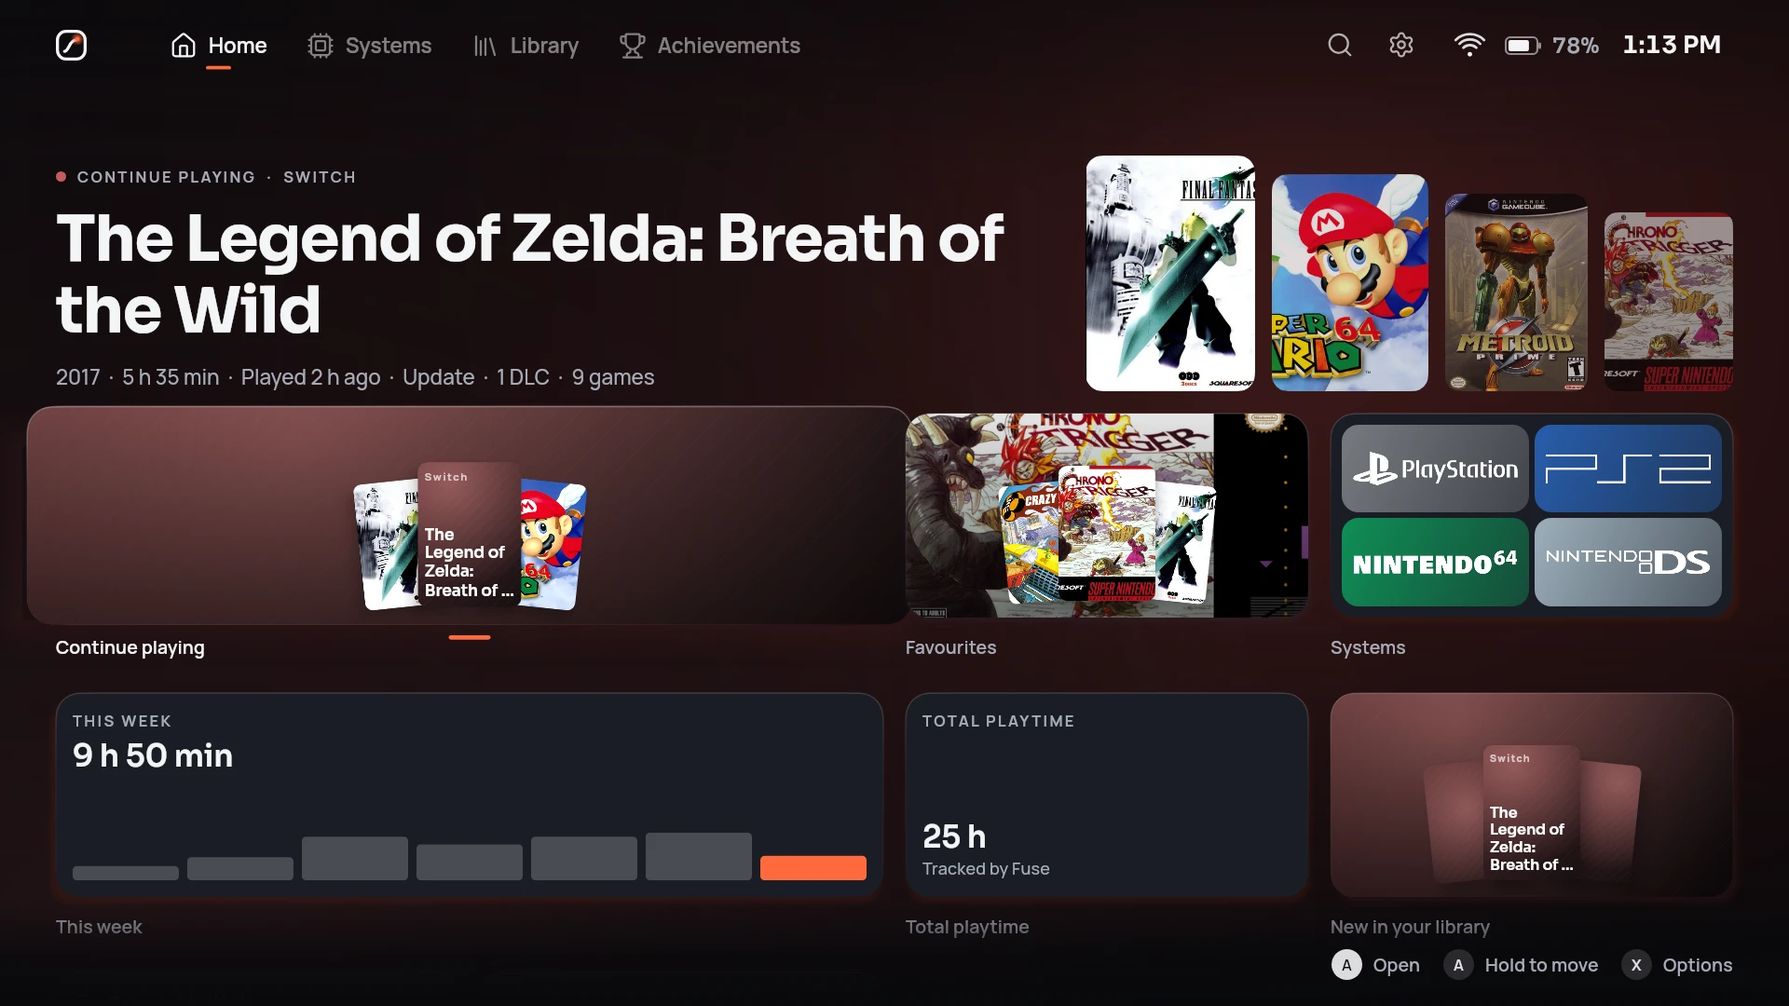
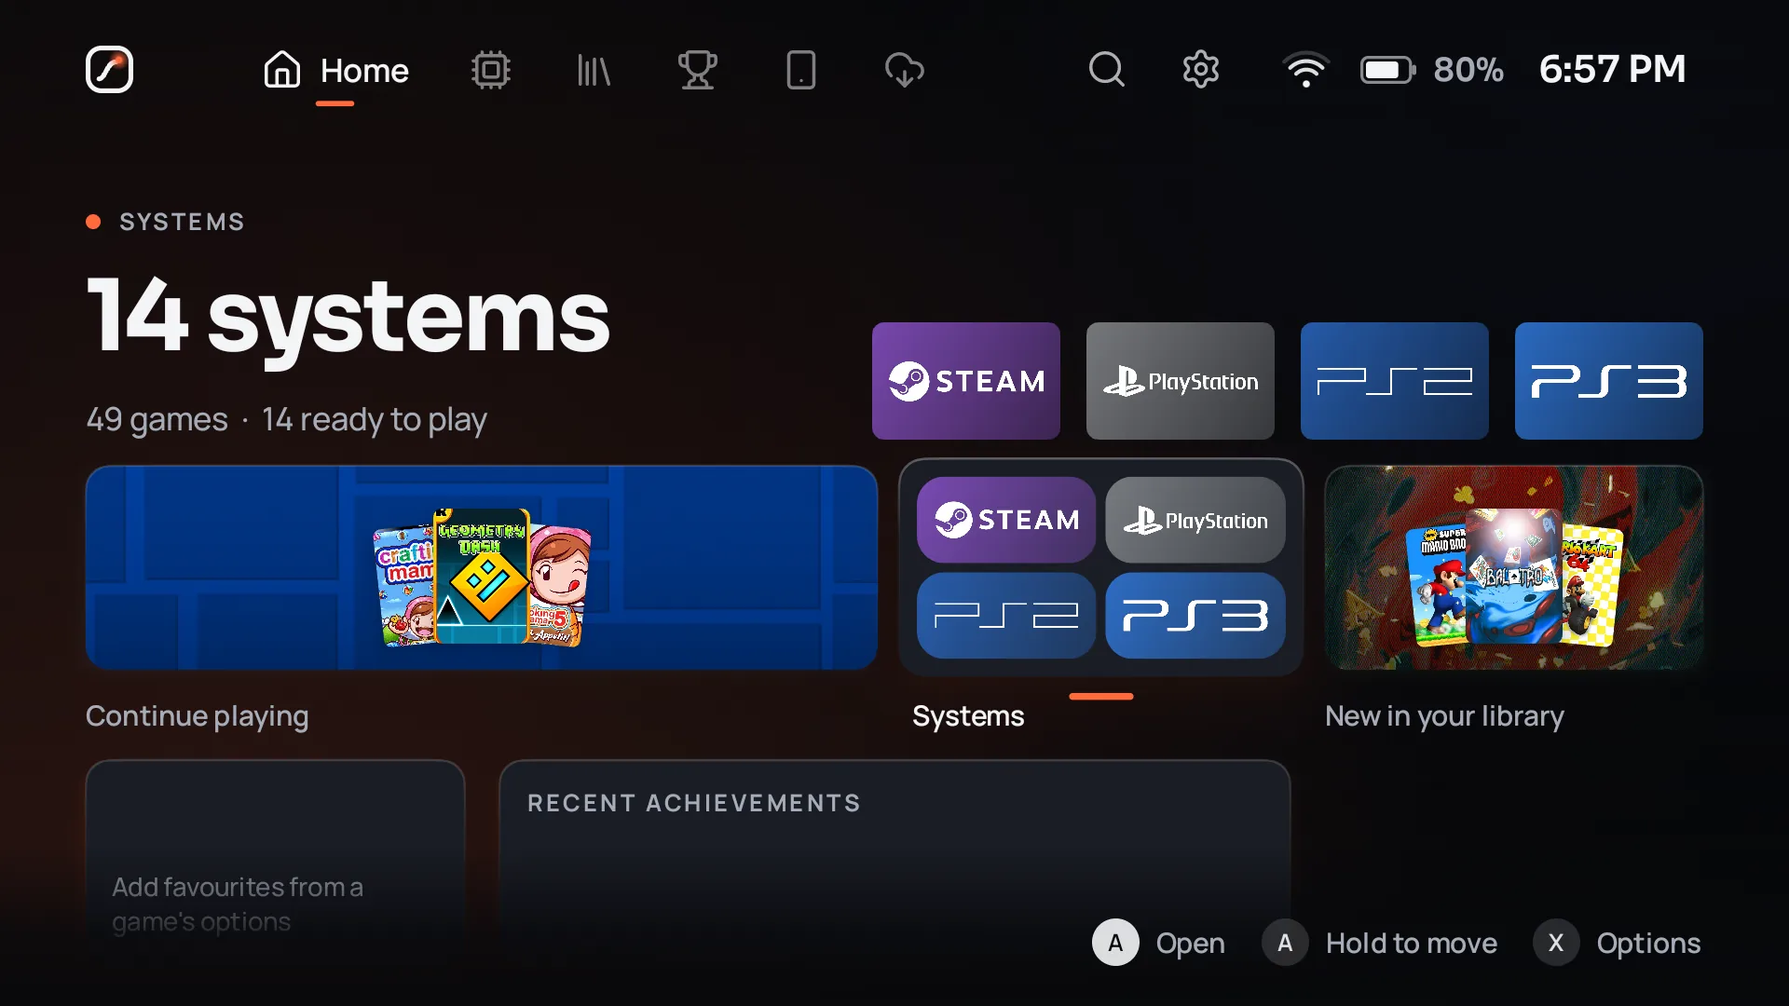
README and website: screenshots from the AYN Thor
The README and the website now show Fuse as it runs on an AYN Thor, with a real library and the art
Fuse filled in for it, instead of renders of an invented library:
- the Library with 2010 FIFA World Cup South Africa over its stadium as the hero;
- Home as Channels, Systems, the Nintendo Switch page, the emulators in Apps, the quick menu and
  the controller keyboard in the gallery;
- the Cartridge page in "RomM through Cartridge" and on the site.

The renders are removed; the screenshot harness now writes to ui/shell/build/readme-screenshots so
it never overwrites the device captures. The screenshot credits say where the captures come from.

Also fixes a capture catching the previous capture's card: the "Screenshot saved" card and the
shutter flash faded out over the 150 ms Fuse waits before taking a picture, so a screenshot taken
right after another could show the card faintly (two of these captures do). While a capture is
taken they are now not drawn at all; the card still slides in afterwards. A test takes two
screenshots in a row and fails on the old overlay.

Claude-Session: https://claude.ai/code/session_01FNdMCeubRUqdWGUFtgwq7x

diff --git a/site/index.html b/site/index.html
@@ -108,7 +108,7 @@
   </section>
 
   <figure class="showcase">
-    <img src="assets/screenshots/home.webp" alt="Fuse's Home screen: The Legend of Zelda: Breath of the Wild in focus, told big over its own art, with Continue playing and a row of systems below" width="1920" height="1080" fetchpriority="high">
+    <img src="assets/screenshots/library.webp" alt="Fuse's Library on an AYN Thor: 2010 FIFA World Cup South Africa in focus, its logo large over a stadium that fills the screen, with rows of square box art below" width="1920" height="1080" fetchpriority="high">
   </figure>
 
   <section id="new" class="shelf" aria-labelledby="new-title" hidden>
@@ -133,11 +133,13 @@
   <section id="screens" class="shelf" aria-labelledby="screens-title">
     <h2 id="screens-title" class="label">A look around</h2>
     <div class="row screens" data-row>
-      <a class="tile screen" href="assets/screenshots/library-icons.webp"><img src="assets/screenshots/library-icons.webp" alt="The library as a grid of square box art, Crazy Taxi in focus" loading="lazy" width="1920" height="1080"><span>Library</span></a>
-      <a class="tile screen" href="assets/screenshots/library-covers.webp"><img src="assets/screenshots/library-covers.webp" alt="The library as a wall of covers, Advance Wars in focus" loading="lazy" width="1920" height="1080"><span>Cover grid</span></a>
-      <a class="tile screen" href="assets/screenshots/systems.webp"><img src="assets/screenshots/systems.webp" alt="Every system with its own logo and artwork, Nintendo Switch in focus" loading="lazy" width="1920" height="1080"><span>Systems</span></a>
-      <a class="tile screen" href="assets/screenshots/game.webp"><img src="assets/screenshots/game.webp" alt="The page of The Legend of Zelda: Breath of the Wild, with its details and a Play button" loading="lazy" width="1920" height="1080"><span>Game page</span></a>
-      <a class="tile screen" href="assets/screenshots/home-channels.webp"><img src="assets/screenshots/home-channels.webp" alt="Home as a board of channels" loading="lazy" width="1920" height="1080"><span>Channels</span></a>
+      <a class="tile screen" href="assets/screenshots/home-channels.webp"><img src="assets/screenshots/home-channels.webp" alt="Home as a board of tiles: Continue playing, Systems, New in your library and recent achievements" loading="lazy" width="1920" height="1080"><span>Home</span></a>
+      <a class="tile screen" href="assets/screenshots/systems.webp"><img src="assets/screenshots/systems.webp" alt="Every system with its own logo and artwork, Steam in focus with 10 games in GameNative" loading="lazy" width="1920" height="1080"><span>Systems</span></a>
+      <a class="tile screen" href="assets/screenshots/system-page.webp"><img src="assets/screenshots/system-page.webp" alt="The Nintendo Switch page, Animal Crossing: New Horizons in focus over its island art" loading="lazy" width="1920" height="1080"><span>System page</span></a>
+      <a class="tile screen" href="assets/screenshots/apps.webp"><img src="assets/screenshots/apps.webp" alt="Apps: the 15 emulators found on the device, from ARMSX1 to XenDroid" loading="lazy" width="1920" height="1080"><span>Emulators</span></a>
+      <a class="tile screen" href="assets/screenshots/quick-menu.webp"><img src="assets/screenshots/quick-menu.webp" alt="The quick menu: time, battery left, Wi-Fi, Bluetooth, Screenshot, Display, Controller and Performance" loading="lazy" width="1920" height="1080"><span>Quick menu</span></a>
+      <a class="tile screen" href="assets/screenshots/keyboard.webp"><img src="assets/screenshots/keyboard.webp" alt="Search with the controller keyboard, with hints on the face buttons" loading="lazy" width="1920" height="1080"><span>Keyboard</span></a>
+      <a class="tile screen" href="assets/screenshots/cartridge.webp"><img src="assets/screenshots/cartridge.webp" alt="Cartridge connected to RomM: browse, search, upload and downloads, by system" loading="lazy" width="1920" height="1080"><span>Cartridge</span></a>
     </div>
   </section>
 

diff --git a/ui/shell/src/desktopTest/kotlin/io/github/matiyaaa/fuse/ui/shell/capture/CaptureOverlayTest.kt b/ui/shell/src/desktopTest/kotlin/io/github/matiyaaa/fuse/ui/shell/capture/CaptureOverlayTest.kt
@@ -1,0 +1,67 @@
+package io.github.matiyaaa.fuse.ui.shell.capture
+
+import androidx.compose.foundation.layout.Box
+import androidx.compose.foundation.layout.size
+import androidx.compose.runtime.remember
+import androidx.compose.runtime.rememberCoroutineScope
+import androidx.compose.ui.Modifier
+import androidx.compose.ui.test.ExperimentalTestApi
+import androidx.compose.ui.test.onNodeWithText
+import androidx.compose.ui.test.v2.runComposeUiTest
+import androidx.compose.ui.unit.dp
+import io.github.matiyaaa.fuse.ui.designsystem.input.ComboGesture
+import io.github.matiyaaa.fuse.ui.designsystem.theme.FuseTheme
+import io.github.matiyaaa.fuse.ui.shell.platform.CaptureResult
+import io.github.matiyaaa.fuse.ui.shell.platform.Haptics
+import io.github.matiyaaa.fuse.ui.shell.platform.RecordingReady
+import io.github.matiyaaa.fuse.ui.shell.platform.ScreenCapture
+import kotlin.test.Test
+import kotlin.test.assertEquals
+import kotlinx.coroutines.flow.MutableSharedFlow
+
+/** What the overlay draws while a capture is taken: nothing of its own, not even a card fading out. */
+@OptIn(ExperimentalTestApi::class)
+class CaptureOverlayTest {
+    private class Shots : ScreenCapture {
+        var taken = 0
+        override val picturesPlace = "Pictures/Fuse"
+        override val videosPlace = "Movies/Fuse"
+        override val stoppedElsewhere = MutableSharedFlow<CaptureResult>()
+        override val leftFuse = MutableSharedFlow<Unit>()
+        override suspend fun screenshot(name: String): CaptureResult {
+            taken++
+            return CaptureResult(picturesPlace)
+        }
+        override suspend fun prepareRecording(withSound: Boolean) = RecordingReady.UNAVAILABLE
+        override fun startRecording(name: String) = Unit
+        override suspend fun stopRecording(): CaptureResult? = null
+    }
+
+    @Test
+    fun theLastCardIsGoneTheMomentTheNextScreenshotStarts() = runComposeUiTest {
+        val shots = Shots()
+        lateinit var controller: CaptureController
+        mainClock.autoAdvance = false
+        setContent {
+            val scope = rememberCoroutineScope()
+            controller = remember { CaptureController(shots, scope, Haptics.None, notify = { _, _ -> }, withSound = { false }) }
+            FuseTheme {
+                Box(Modifier.size(960.dp, 540.dp)) { CaptureOverlay(controller) }
+            }
+        }
+        runOnIdle { controller.onCombo(ComboGesture.TAP) }
+        mainClock.advanceTimeBy(CaptureController.CLEAR_MS + 500)
+        assertEquals(1, shots.taken)
+        onNodeWithText("Screenshot saved").assertExists()
+
+        // A second screenshot right away, as when the shots in the README were taken.
+        runOnIdle { controller.onCombo(ComboGesture.TAP) }
+        mainClock.advanceTimeBy(32)
+        assertEquals(CaptureController.State.Capturing, controller.state)
+        onNodeWithText("Screenshot saved").assertDoesNotExist()
+
+        mainClock.advanceTimeBy(CaptureController.CLEAR_MS + 500)
+        assertEquals(2, shots.taken)
+        onNodeWithText("Screenshot saved").assertExists()
+    }
+}

diff --git a/ui/shell/src/commonMain/kotlin/io/github/matiyaaa/fuse/ui/shell/capture/CaptureOverlay.kt b/ui/shell/src/commonMain/kotlin/io/github/matiyaaa/fuse/ui/shell/capture/CaptureOverlay.kt
@@ -64,9 +64,12 @@ import kotlinx.coroutines.delay
 @Composable
 fun BoxScope.CaptureOverlay(capture: CaptureController) {
     val state = capture.state
+    // While a capture is being taken the flash and the last capture's card are not drawn at all:
+    // left to fade out they could still be on screen, faintly, in the next picture.
+    val capturing = state == CaptureController.State.Capturing
     Countdown(state as? CaptureController.State.Countdown, Modifier.align(Alignment.Center))
-    Flash(capture.shots)
-    SavedCard(capture.saved, Modifier.align(Alignment.BottomStart).padding(start = Space.gutter, bottom = Size.hintHeight + Space.m))
+    Flash(capture.shots, hidden = capturing)
+    SavedCard(capture.saved, hidden = capturing, Modifier.align(Alignment.BottomStart).padding(start = Space.gutter, bottom = Size.hintHeight + Space.m))
 }
 
 @Composable
@@ -131,7 +134,7 @@ private fun SecondRing(second: Int) {
 
 /** A brief white flash after each screenshot, like a shutter. Left out under Reduced motion. */
 @Composable
-private fun Flash(shots: Int) {
+private fun Flash(shots: Int, hidden: Boolean) {
     if (Fuse.motion.reduced) return
     val alpha = remember { Animatable(0f) }
     LaunchedEffect(shots) {
@@ -139,12 +142,15 @@ private fun Flash(shots: Int) {
         alpha.snapTo(0.32f)
         alpha.animateTo(0f, tween(340))
     }
-    if (alpha.value > 0f) Box(Modifier.fillMaxSize().graphicsLayer { this.alpha = alpha.value }.background(Color.White))
+    if (alpha.value > 0f && !hidden) Box(Modifier.fillMaxSize().graphicsLayer { this.alpha = alpha.value }.background(Color.White))
 }
 
-/** The capture just saved, with a small picture of it and where it went. */
+/**
+ * The capture just saved, with a small picture of it and where it went. [hidden] draws nothing at
+ * once, even mid-animation, while the next capture is taken; the card still slides in afterwards.
+ */
 @Composable
-private fun SavedCard(saved: CaptureResult?, modifier: Modifier) {
+private fun SavedCard(saved: CaptureResult?, hidden: Boolean, modifier: Modifier) {
     val c = Fuse.colors
     // Keeps the last card on screen while it slides away.
     val shown = remember { arrayOfNulls<CaptureResult>(1) }
@@ -156,6 +162,7 @@ private fun SavedCard(saved: CaptureResult?, modifier: Modifier) {
         exit = fadeOut(tween(160)) + slideOutVertically(tween(200)) { it / 3 },
     ) {
         val card = shown[0] ?: return@AnimatedVisibility
+        if (hidden) return@AnimatedVisibility
         Row(
             Modifier
                 .shadow(18.dp, RoundedCornerShape(Fuse.geometry.panel), clip = false)

diff --git a/site/assets/site.css b/site/assets/site.css
@@ -48,11 +48,11 @@ img { display: block; }
 i { font-style: normal; color: var(--faint); margin: 0 .5em; }
 [hidden] { display: none !important; }
 
-/* The room: the home screen blurred behind everything, with a faint warm light low and a cool one high. */
+/* The room: a screen of Fuse blurred behind everything, with a faint warm light low and a cool one high. */
 .room { position: fixed; inset: 0; z-index: -1; overflow: hidden; pointer-events: none; }
 .room-art {
   position: absolute; inset: -8%;
-  background: url("screenshots/home.webp") center 30% / cover no-repeat;
+  background: url("screenshots/library.webp") center 30% / cover no-repeat;
   filter: blur(48px) saturate(1.1) brightness(.42);
   transform: scale(1.08);
   opacity: .9;

diff --git a/ui/shell/src/desktopTest/kotlin/io/github/matiyaaa/fuse/ui/shell/screenshots/ReadmeScreenshots.kt b/ui/shell/src/desktopTest/kotlin/io/github/matiyaaa/fuse/ui/shell/screenshots/ReadmeScreenshots.kt
@@ -46,7 +46,8 @@ import org.jetbrains.skia.Image
 import org.junit.Assume.assumeTrue
 
 /**
- * Renders the README screenshots from the real interface over the real store: a library of
+ * Renders screenshots from the real interface over the real store (the README and website now use
+ * captures from a device; these renders are for checking screens at a glance): a library of
  * well-known games ([SampleLibrary]) is scanned from a temporary folder and given its details, Fuse
  * fills its art over the network the way it does on a device (libretro thumbnails for games, Art
  * Book Next for systems), the app is driven with controller presses, and each settled frame is

diff --git a/README.md b/README.md
@@ -55,55 +55,53 @@ Home screen.
 The game you are on sets the mood. Its art fills the room, its colour tints the glow, and the tile
 under your thumb lifts toward you with a single sweep of light.
 
-<a href="docs/assets/screenshots/home.webp"><img src="docs/assets/screenshots/home.webp" width="100%" alt="Fuse's Home screen in the Fuse theme. The Legend of Zelda: Breath of the Wild is in focus, told large with its year, play time, update and DLC. Below, a Continue playing row with Final Fantasy VII, Super Mario 64 and Metroid Prime over their box art, and a row of systems with their logos and artwork."></a>
+<a href="docs/assets/screenshots/library.webp"><img src="docs/assets/screenshots/library.webp" width="100%" alt="Fuse's Library on an AYN Thor: 2010 FIFA World Cup South Africa is in focus, its logo large over a stadium full of fans that fills the whole screen. Below, rows of square box art: 2014 FIFA World Cup Brazil, Animal Crossing, Assassin's Creed, Balatro, Cooking Mama and Crazy Taxi."></a>
 
-<sub><b>Home.</b> Continue where you left off, with your systems one row below.</sub>
+<sub><b>Library.</b> The game you're on fills the room.</sub>
 
 </div>
 
 <table>
   <tr>
     <td width="50%" valign="top">
-      <a href="docs/assets/screenshots/library-covers.webp"><img src="docs/assets/screenshots/library-covers.webp" width="100%" alt="The Library as a wall of tall covers of well-known games, Advance Wars in focus, with tabs for every game, favourites and recently played."></a>
-      <br><b>Your whole library</b>
-      <br><sub>Covers, square box art, capsules or a compact list, filtered by system, favourites or what you played last.</sub>
+      <a href="docs/assets/screenshots/home-channels.webp"><img src="docs/assets/screenshots/home-channels.webp" width="100%" alt="Home as a board of tiles: 14 systems and 49 games, a wide Continue playing tile with Geometry Dash and Cooking Mama, a Systems tile with Steam, PlayStation, PS2 and PS3, New in your library, and Recent achievements."></a>
+      <br><b>Home, a board you arrange</b>
+      <br><sub>Continue playing, your systems, what's new and your achievements, as tiles you place and resize yourself, or as a flowing Home if you like.</sub>
     </td>
     <td width="50%" valign="top">
-      <a href="docs/assets/screenshots/library-icons.webp"><img src="docs/assets/screenshots/library-icons.webp" width="100%" alt="The Library as a grid of square box art, Crazy Taxi in focus with its art filling the room, next to Chrono Trigger, Crash Bandicoot and Donkey Kong Country."></a>
-      <br><b>Art that fills itself in</b>
-      <br><sub>Box art, covers, logos and backgrounds for every game, found for you, and art of Fuse's own for any it can't find.</sub>
-    </td>
-  </tr>
-  <tr>
-    <td width="50%" valign="top">
-      <a href="docs/assets/screenshots/game.webp"><img src="docs/assets/screenshots/game.webp" width="100%" alt="The page of The Legend of Zelda: Breath of the Wild: its year, developer, genres and players, a Play button that says it starts in Ryujinx, its play time and what it's about."></a>
-      <br><b>A page for every game</b>
-      <br><sub>Its details, the emulator Fuse will start, your play time, and its discs, updates and DLC kept together.</sub>
-    </td>
-    <td width="50%" valign="top">
-      <a href="docs/assets/screenshots/systems.webp"><img src="docs/assets/screenshots/systems.webp" width="100%" alt="The Systems screen: every system with its own logo and artwork, Nintendo Switch in focus with its game count and its emulator, Ryujinx."></a>
+      <a href="docs/assets/screenshots/systems.webp"><img src="docs/assets/screenshots/systems.webp" width="100%" alt="The Systems screen: Steam in focus with 10 games that start in GameNative, then PlayStation, PS2, PS3, PSP, Nintendo 64, DS, 3DS, Game Boy, Game Boy Advance, Switch, Dreamcast, Xbox 360 and Android, each with its own logo and artwork."></a>
       <br><b>Systems, with art of their own</b>
-      <br><sub>Logos, artwork and colours for every system, and the emulator behind each one, per system or per game.</sub>
+      <br><sub>Logos, artwork and colours for every system, with its game count and the emulator behind it.</sub>
     </td>
   </tr>
   <tr>
     <td width="50%" valign="top">
-      <a href="docs/assets/screenshots/home-channels.webp"><img src="docs/assets/screenshots/home-channels.webp" width="100%" alt="Home as a board of tiles: Continue playing, Favourites, Systems with their logos, this week's play time as a bar chart, total play time and New in your library."></a>
-      <br><b>Or a board of tiles you arrange</b>
-      <br><sub>Channels turns Home into widgets you place and resize yourself, from 19 kinds.</sub>
+      <a href="docs/assets/screenshots/system-page.webp"><img src="docs/assets/screenshots/system-page.webp" width="100%" alt="The Nintendo Switch page: Animal Crossing: New Horizons in focus, its island art filling the screen, next to Mario Kart 8 Deluxe, Red Dead Redemption, Story of Seasons and Super Mario Odyssey."></a>
+      <br><b>A page for every system</b>
+      <br><sub>Its games over the art of the one you're on, sorted and laid out the way you like for that system.</sub>
     </td>
     <td width="50%" valign="top">
-      <a href="docs/assets/screenshots/onboarding.webp"><img src="docs/assets/screenshots/onboarding.webp" width="100%" alt="The first step of setup: Welcome to Fuse, a Begin button, and the Fuse mark."></a>
-      <br><b>A guided start</b>
-      <br><sub>Setup walks you through folders, emulators and, on Android, the optional Home screen.</sub>
+      <a href="docs/assets/screenshots/apps.webp"><img src="docs/assets/screenshots/apps.webp" width="100%" alt="Apps, Emulators: 15 found on the device, from ARMSX1, ARMSX2, ARMSX3, AzaharPlus, Cemu, Dolphin, DuckStation and Eden to Flycast, GameNative, melonDS, PPSSPP, RetroArch, Vita3K and XenDroid."></a>
+      <br><b>Your emulators, found for you</b>
+      <br><sub>On Android, every emulator on the device in one place, next to your pinned apps and an app drawer.</sub>
+    </td>
+  </tr>
+  <tr>
+    <td width="50%" valign="top">
+      <a href="docs/assets/screenshots/quick-menu.webp"><img src="docs/assets/screenshots/quick-menu.webp" width="100%" alt="The quick menu over Home: the time and date, battery at 80 percent with 4 hours left, and tiles for Wi-Fi, Bluetooth, Screenshot, Display, Controller, Performance, Low Power, Find games and Cartridge."></a>
+      <br><b>Everything at a press</b>
+      <br><sub>The quick menu: time, battery left, Wi-Fi, screenshots and recordings, performance and more, from any screen.</sub>
+    </td>
+    <td width="50%" valign="top">
+      <a href="docs/assets/screenshots/keyboard.webp"><img src="docs/assets/screenshots/keyboard.webp" width="100%" alt="Search with Fuse's controller keyboard: a field for games, systems and apps above a full keyboard, with hints for type, delete, space, cursor and results on the controller's buttons."></a>
+      <br><b>Type with a controller</b>
+      <br><sub>A keyboard made for buttons and sticks, with a cursor, shortcuts on every face button, and paste.</sub>
     </td>
   </tr>
 </table>
 
-<p align="center"><sub>Every screenshot is a real render of Fuse's interface (the desktop build at 1920 x 1080), driven with
-controller input over a library of well-known games whose art Fuse found by itself: box art from the
-<a href="https://github.com/libretro-thumbnails/libretro-thumbnails">libretro thumbnails</a>, system art from <a href="https://github.com/anthonycaccese/art-book-next-es-de">Art Book Next</a>.
-Games with no art there (the Switch games here) show Fuse's own. The games, their names and their art belong to their owners.
+<p align="center"><sub>Screenshots taken with Fuse on an AYN Thor (1920 x 1080), with a real library and the art Fuse filled
+in for it; system art from <a href="https://github.com/anthonycaccese/art-book-next-es-de">Art Book Next</a>. The games, their names and their art belong to their owners.
 Fuse comes with no games and is not affiliated with them.</sub></p>
 
 <picture>
@@ -444,6 +442,8 @@ Fuse does not include emulators, BIOS files or games. Install the emulators you 
 automatically.
 
 ## RomM through Cartridge
+
+<a href="docs/assets/screenshots/cartridge.webp"><img src="docs/assets/screenshots/cartridge.webp" width="100%" alt="Fuse's Cartridge page, connected to RomM: Open Cartridge, Browse, Search, Upload, Downloads and Consoles, then Browse by system with Steam, PlayStation, PS2, PS3, PSP, Nintendo 64 and DS, and Recently downloaded games."></a>
 
 Fuse does not talk to RomM servers. [Cartridge](https://github.com/abdu2304/cartridge) by
 [abdu2304](https://github.com/abdu2304), a RomM companion app, signs in to your RomM server, keeps

diff --git a/THIRD_PARTY_NOTICES.md b/THIRD_PARTY_NOTICES.md
@@ -118,13 +118,13 @@ cached on their device. None of it is part of Fuse's distribution.
 
 ### Screenshots
 
-The README and website screenshots (`docs/assets/screenshots`) show well-known games with the art
-Fuse fetched for them while the screenshots were made: box art from the
-[libretro thumbnails](https://github.com/libretro-thumbnails/libretro-thumbnails), collected by the
-libretro community, and system art from Art Book Next (CC BY-NC-SA 2.0, credited as below). The screenshots are documentation: they are not part
-of Fuse's code or of its downloads. The games, their names and their art belong to their owners, the
-Art Book Next art in them stays under CC BY-NC-SA 2.0, and they are shown only to illustrate what Fuse
-does with a library.
+The README and website screenshots (`docs/assets/screenshots`) are captures of Fuse running on an
+AYN Thor with its author's own library. The game art in them is what Fuse fetched for that library
+from the sources it fills art from, and the system art is from Art Book Next (CC BY-NC-SA 2.0,
+credited as below). The screenshots are documentation: they are not part of Fuse's code or of its
+downloads. The games, their names and their art belong to their owners, the Art Book Next art in
+them stays under CC BY-NC-SA 2.0, and they are shown only to illustrate what Fuse does with a
+library.
 
 ## Compatibility with GPL-3.0-or-later
 
